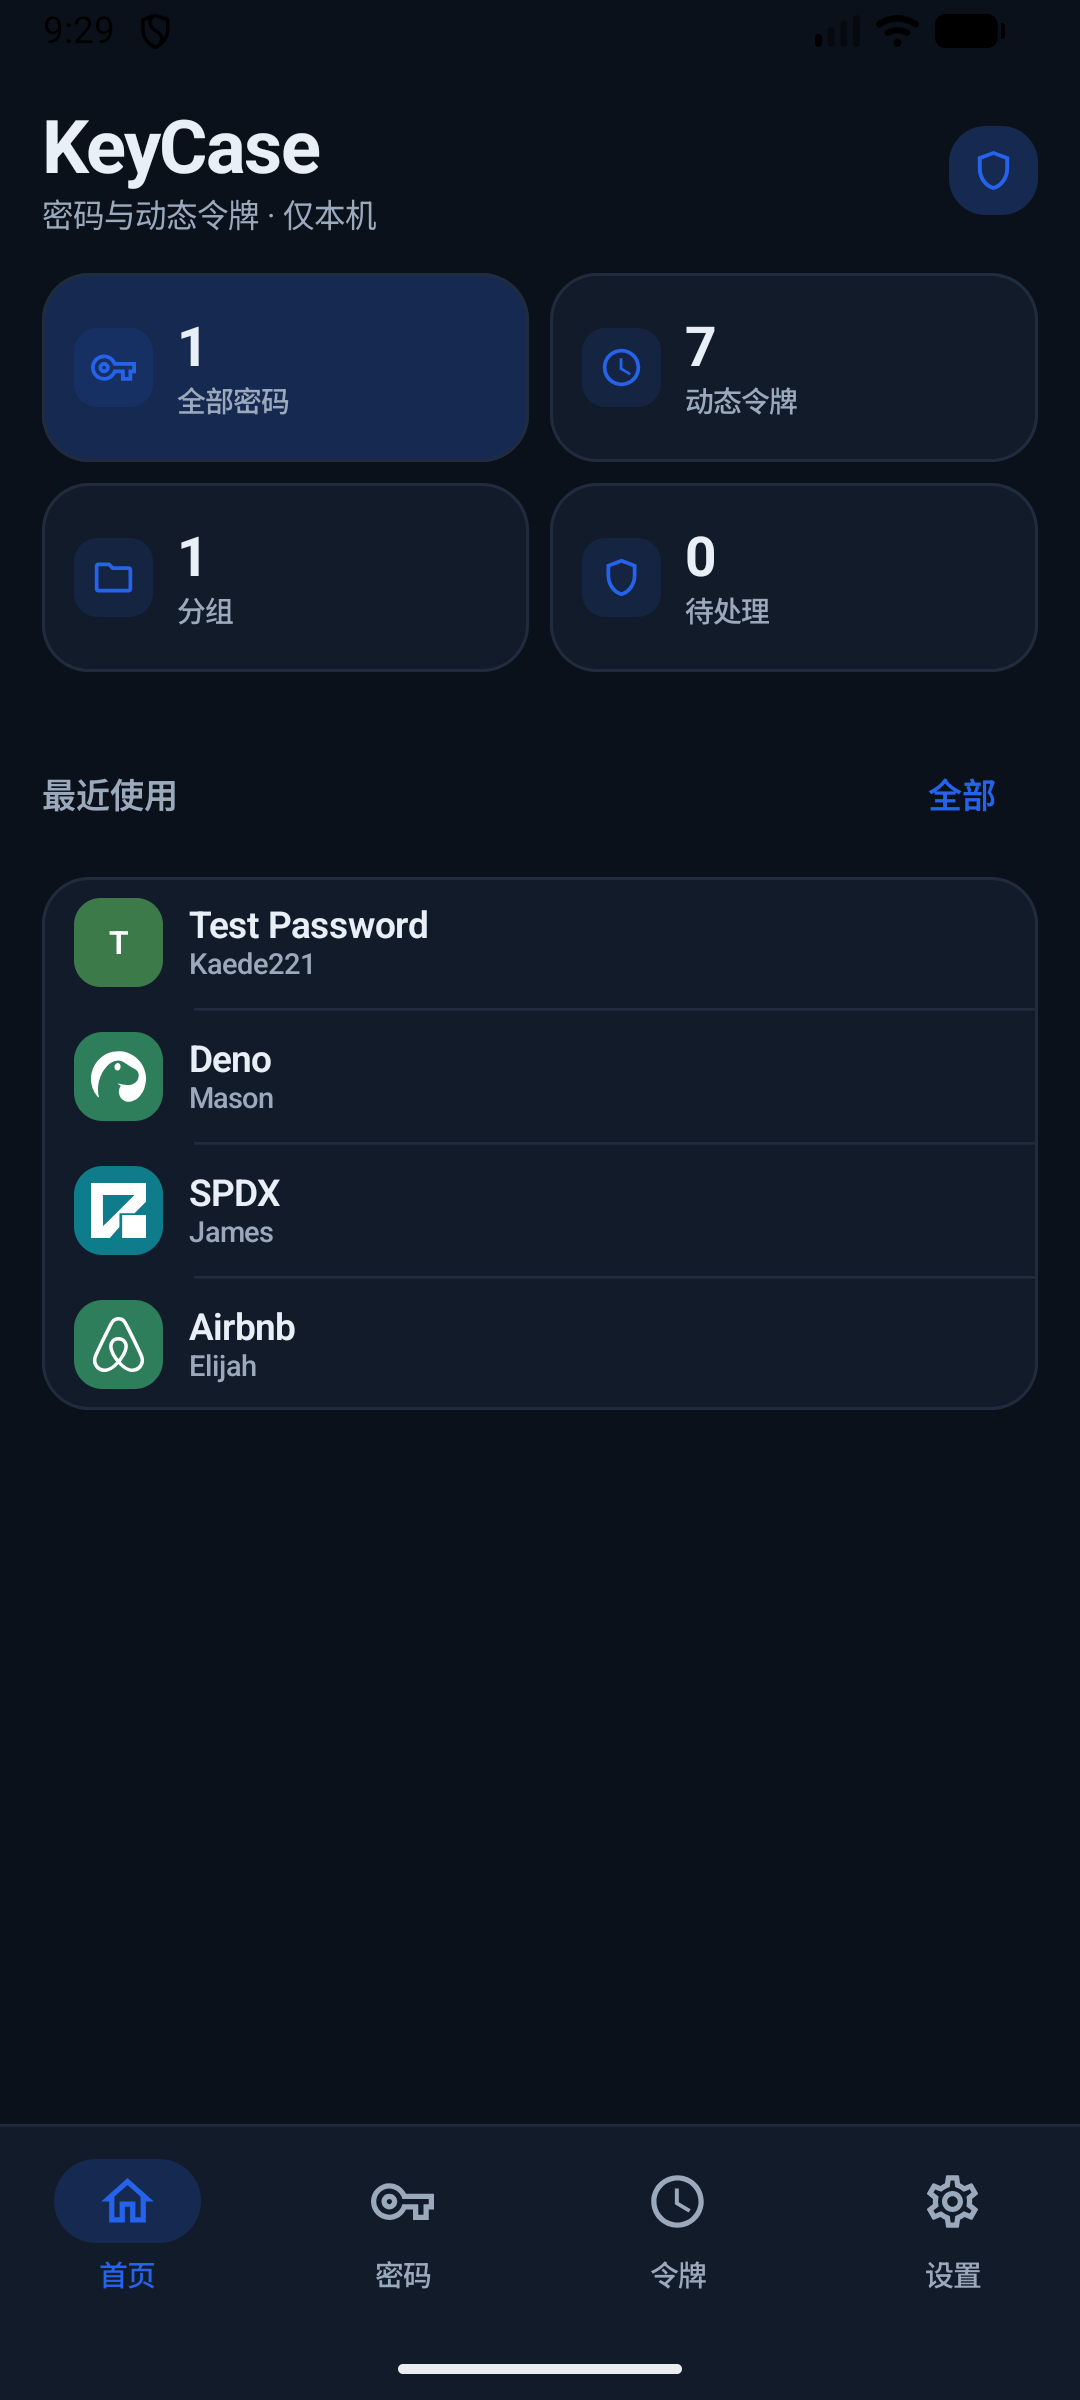
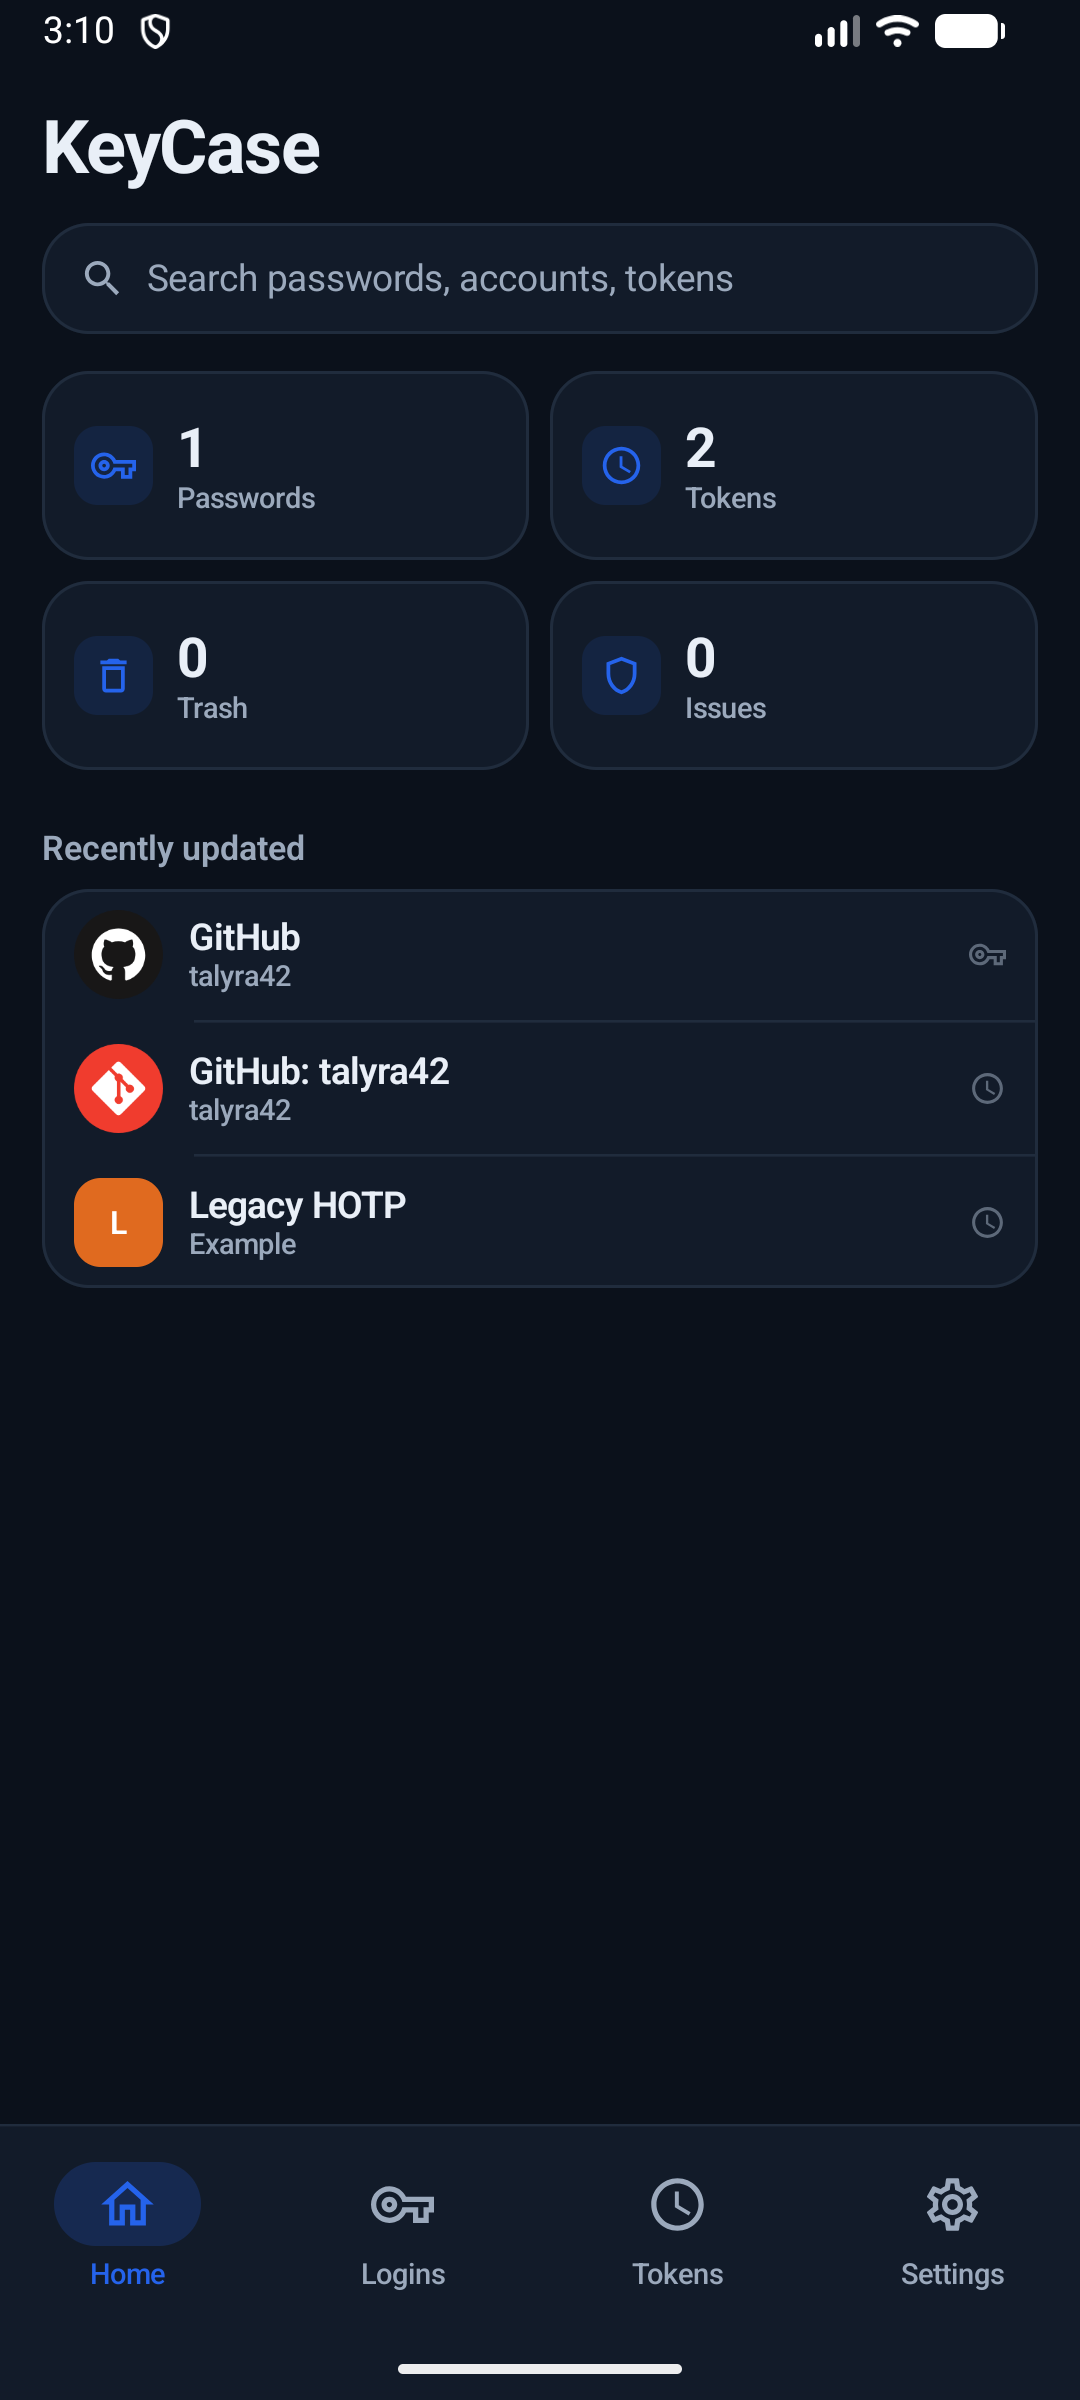
fix(app): center home stat cards and fit large font labels

diff --git a/app/src/main/java/top/talyra42/keycase/ui/KeyCaseApp.kt b/app/src/main/java/top/talyra42/keycase/ui/KeyCaseApp.kt
@@ -72,6 +72,7 @@ import androidx.compose.ui.Alignment
 import androidx.compose.ui.Modifier
 import androidx.compose.ui.draw.rotate
 import androidx.compose.ui.graphics.vector.ImageVector
+import androidx.compose.ui.text.style.TextOverflow
 import androidx.compose.ui.unit.dp
 import androidx.core.view.WindowCompat
 import kotlinx.coroutines.launch
@@ -482,7 +483,7 @@ private fun MainScaffold(
                     tonalElevation = 0.dp,
                 ) {
                     NavigationItem(0, pagerState.currentPage, { goToPage(it) }, "首页", Icons.Outlined.Home)
-                    NavigationItem(1, pagerState.currentPage, { goToPage(it) }, "密码", Icons.Outlined.VpnKey)
+                    NavigationItem(1, pagerState.currentPage, { goToPage(it) }, "登录项", Icons.Outlined.VpnKey)
                     NavigationItem(2, pagerState.currentPage, { goToPage(it) }, "令牌", Icons.Outlined.Schedule)
                     NavigationItem(3, pagerState.currentPage, { goToPage(it) }, "设置", Icons.Outlined.Settings)
                 }
@@ -665,7 +666,14 @@ private fun RowScope.NavigationItem(
         selected = selected == index,
         onClick = { onTab(index) },
         icon = { Icon(icon, contentDescription = label) },
-        label = { Text(label, style = MaterialTheme.typography.labelSmall) },
+        label = {
+            Text(
+                label,
+                style = MaterialTheme.typography.labelSmall,
+                maxLines = 1,
+                overflow = TextOverflow.Ellipsis,
+            )
+        },
         colors = NavigationBarItemDefaults.colors(
             selectedIconColor = MaterialTheme.colorScheme.primary,
             selectedTextColor = MaterialTheme.colorScheme.primary,

diff --git a/app/src/main/java/top/talyra42/keycase/ui/HomeScreen.kt b/app/src/main/java/top/talyra42/keycase/ui/HomeScreen.kt
@@ -108,7 +108,7 @@ fun HomeScreen(
                     modifier = Modifier.weight(1f),
                 )
                 StatCard(
-                    title = "动态令牌",
+                    title = "令牌",
                     count = tokens.size,
                     icon = Icons.Outlined.Schedule,
                     onClick = onOpenTokens,
@@ -125,7 +125,7 @@ fun HomeScreen(
                     modifier = Modifier.weight(1f),
                 )
                 StatCard(
-                    title = "待处理",
+                    title = "需处理",
                     count = issues,
                     icon = Icons.Outlined.Shield,
                     onClick = onOpenSecurity,

diff --git a/app/src/main/java/top/talyra42/keycase/ui/LocalizedText.kt b/app/src/main/java/top/talyra42/keycase/ui/LocalizedText.kt
@@ -171,6 +171,7 @@ private val EN = mapOf(
     "未命名" to "Untitled",
     "保险库还是空的" to "Your vault is empty",
     "待处理" to "Needs attention",
+    "需处理" to "Issues",
     "动态令牌" to "Authenticator tokens",
     "分组" to "Groups",
     "密码与动态令牌 · 仅本机" to "Passwords & TOTP · on-device",
@@ -244,6 +245,7 @@ private val EN = mapOf(
     "正在读取内置图标…" to "Loading built-in icons…",
     "令牌" to "Tokens",
     "密码" to "Passwords",
+    "登录项" to "Logins",
     "登录密码" to "Password",
     "令牌详情" to "Token details",
     "扫码" to "Scan",

diff --git a/app/src/main/java/top/talyra42/keycase/ui/Components.kt b/app/src/main/java/top/talyra42/keycase/ui/Components.kt
@@ -129,7 +129,8 @@ fun StatCard(
     ) {
         Row(
             modifier = Modifier
-                .fillMaxSize()
+                .fillMaxWidth()
+                .heightIn(min = 72.dp)
                 .padding(horizontal = 12.dp),
             verticalAlignment = Alignment.CenterVertically,
             horizontalArrangement = Arrangement.spacedBy(9.dp),
